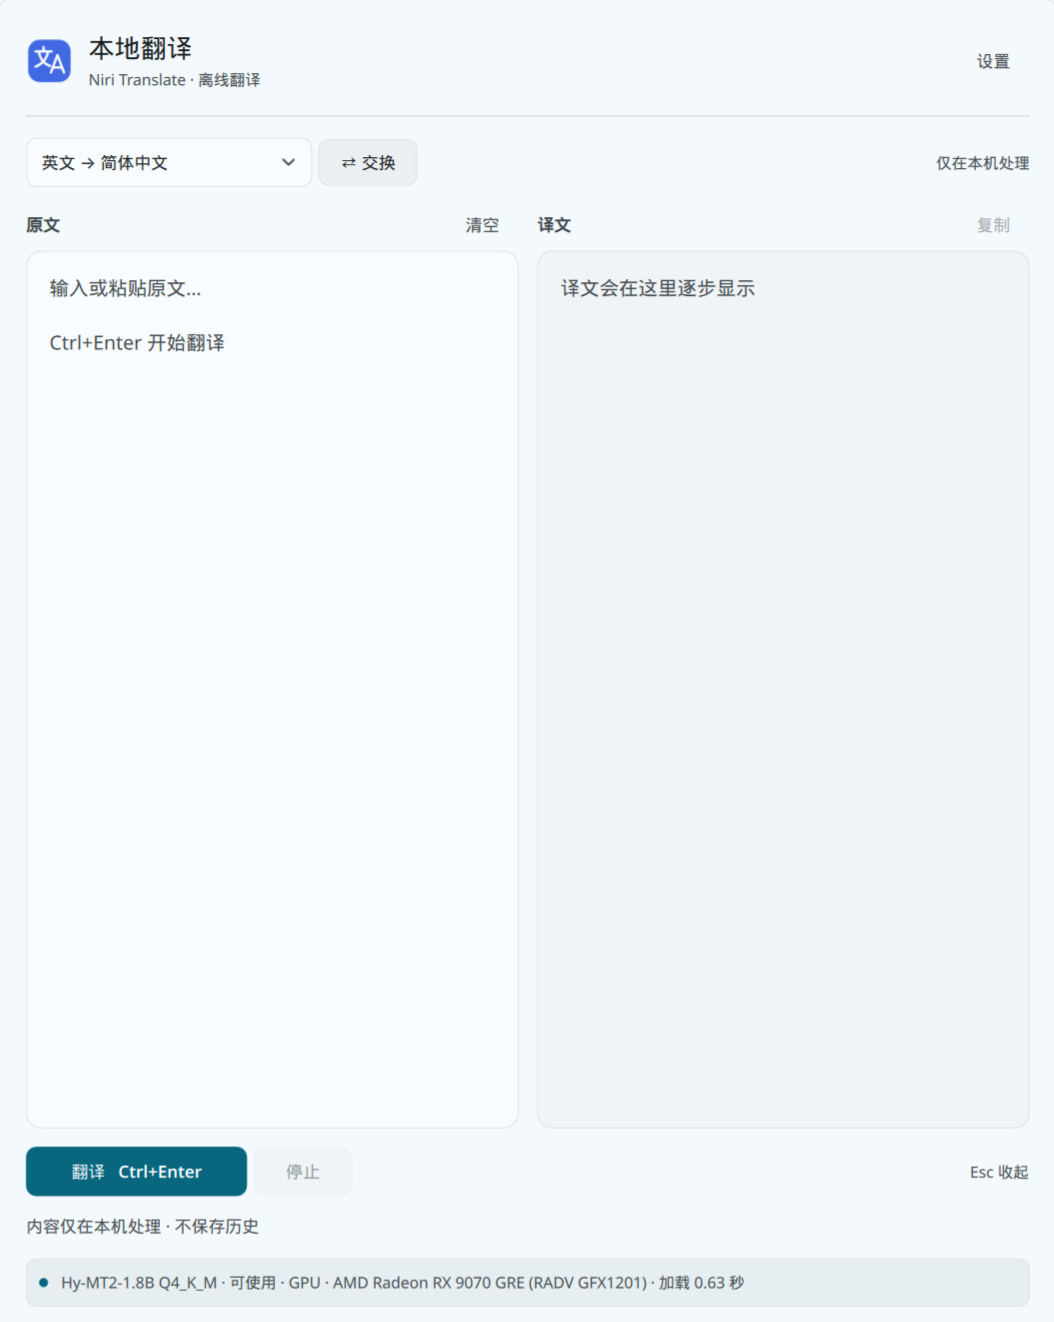
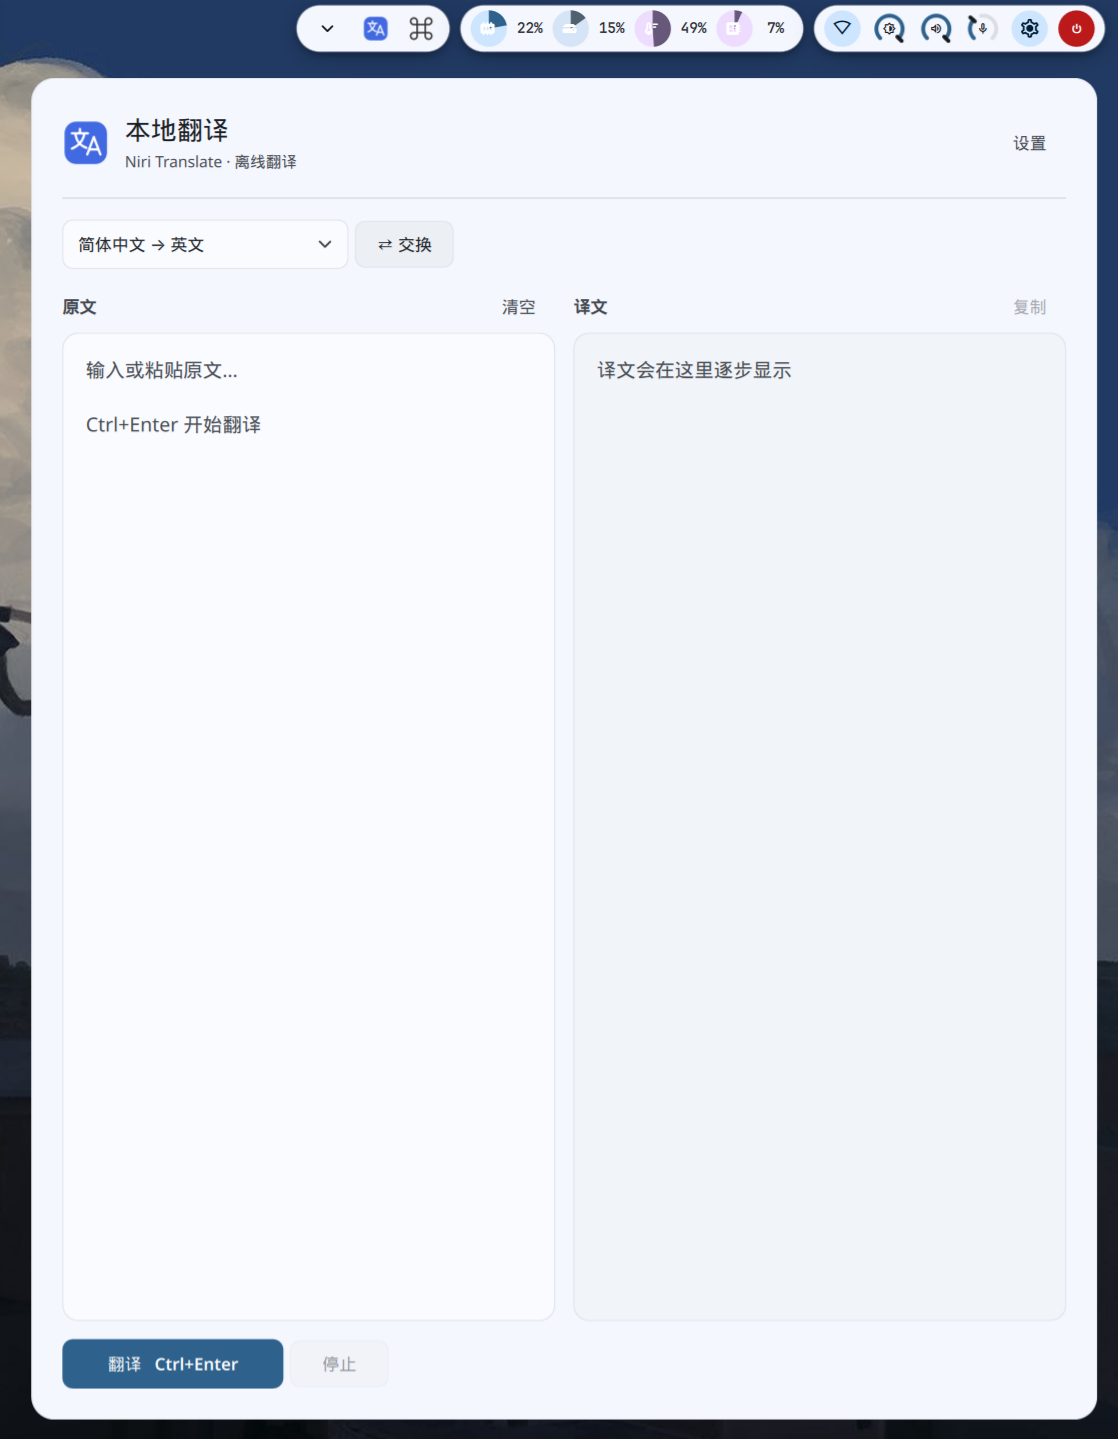
Simplify translation home and refresh screenshot

diff --git a/niri_translate/ui/shell.qml b/niri_translate/ui/shell.qml
@@ -529,11 +529,6 @@ ShellRoot {
                             Item {
                                 Layout.fillWidth: true
                             }
-                            UiLabel {
-                                text: "仅在本机处理"
-                                color: shell.muted
-                                font.pixelSize: 12
-                            }
                         }
                         RowLayout {
                             Layout.fillWidth: true
@@ -700,14 +695,14 @@ ShellRoot {
                             Item {
                                 Layout.fillWidth: true
                             }
-                            UiLabel {
-                                text: "Esc 收起"
-                                color: shell.muted
-                                font.pixelSize: 12
-                            }
                         }
                         UiLabel {
-                            text: shell.data.status || ""
+                            // Keep actionable errors and stop notices; omit idle copy and timing details.
+                            readonly property string notice: shell.data.status || ""
+                            text: shell.data.translating ? "正在翻译…" : notice
+                            visible: !!shell.data.translating || (notice.length > 0
+                                     && notice !== "内容仅在本机处理 · 不保存历史"
+                                     && !notice.startsWith("完成 ·"))
                             Layout.fillWidth: true
                             wrapMode: Text.WordWrap
                             color: shell.muted
@@ -1035,6 +1030,7 @@ ShellRoot {
                         }
                     }
                     Rectangle {
+                        visible: !!shell.data.settings
                         Layout.fillWidth: true
                         implicitHeight: footer.implicitHeight + 20
                         radius: 8
